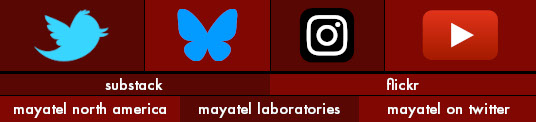
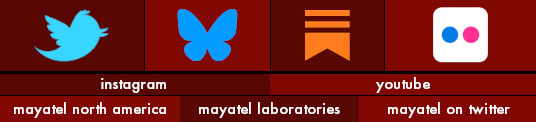
reprioritized, i guess?

diff --git a/index.html b/index.html
@@ -47,11 +47,11 @@
 <map name="MAYA">
 <area shape="rect" href="https://www.twitter.com/MayaWalkWithMe" coords="10,10 140,70">
 <area shape="rect" href="https://bsky.app/profile/mayawalkwith.me" coords="145,10 267,70">
-<area shape="rect" href="https://www.instagram.com/mayawalkwithme/" coords="271,10 383,70">
-<area shape="rect" href="https://www.youtube.com/@mayawalkwithme" coords="385,10 535,70">
+<area shape="rect" href="https://laserdyke.substack.com/" coords="271,10 383,70">
+<area shape="rect" href="https://www.flickr.com/people/201608839@N06/" coords="385,10 535,70">
 
-<area shape="rect" href="https://laserdyke.substack.com/" coords="10,75 267,94">
-<area shape="rect" href="https://www.flickr.com/people/201608839@N06/" target="_blank" coords="271,75 535,94">
+<area shape="rect" href="https://www.instagram.com/mayawalkwithme/" coords="10,75 267,94">
+<area shape="rect" href="https://www.youtube.com/@mayawalkwithme" target="_blank" coords="271,75 535,94">
 
 <area shape="rect" href="http://mayawalkwith.me/mayatel.html" coords="10,96 180,120">
 <area shape="rect" href="https://github.com/mayatellabs" coords="145,96 359,120">
@@ -61,10 +61,10 @@
 <center>
 <a href="https://www.twitter.com/MayaWalkWithMe">twitter</a> |
 <a href="https://bsky.app/profile/mayawalkwith.me">bluesky</a> | 
-<a href="https://www.instagram.com/mayawalkwithme/">instagram</a> | 
-<a href="https://www.youtube.com/@mayawalkwithme">youtube</a><br>
-<a href="https://laserdyke.substack.com/">substack</a> |
+<a href="https://laserdyke.substack.com/">substack</a> | 
 <a href="https://www.flickr.com/people/201608839@N06/">flickr</a><br>
+<a href="https://www.instagram.com/mayawalkwithme/">instagram</a> |
+<a href="https://www.youtube.com/@mayawalkwithme">youtube</a><br>
 <a href="http://mayawalkwith.me/mayatel.html">MayaTel</a> |
 <a href="https://github.com/mayatellabs">MayaTel Laboratories</a> |
 <a href="https://www.twitter.com/MayaTelNA">@MayaTelNA on Twitter</a>
